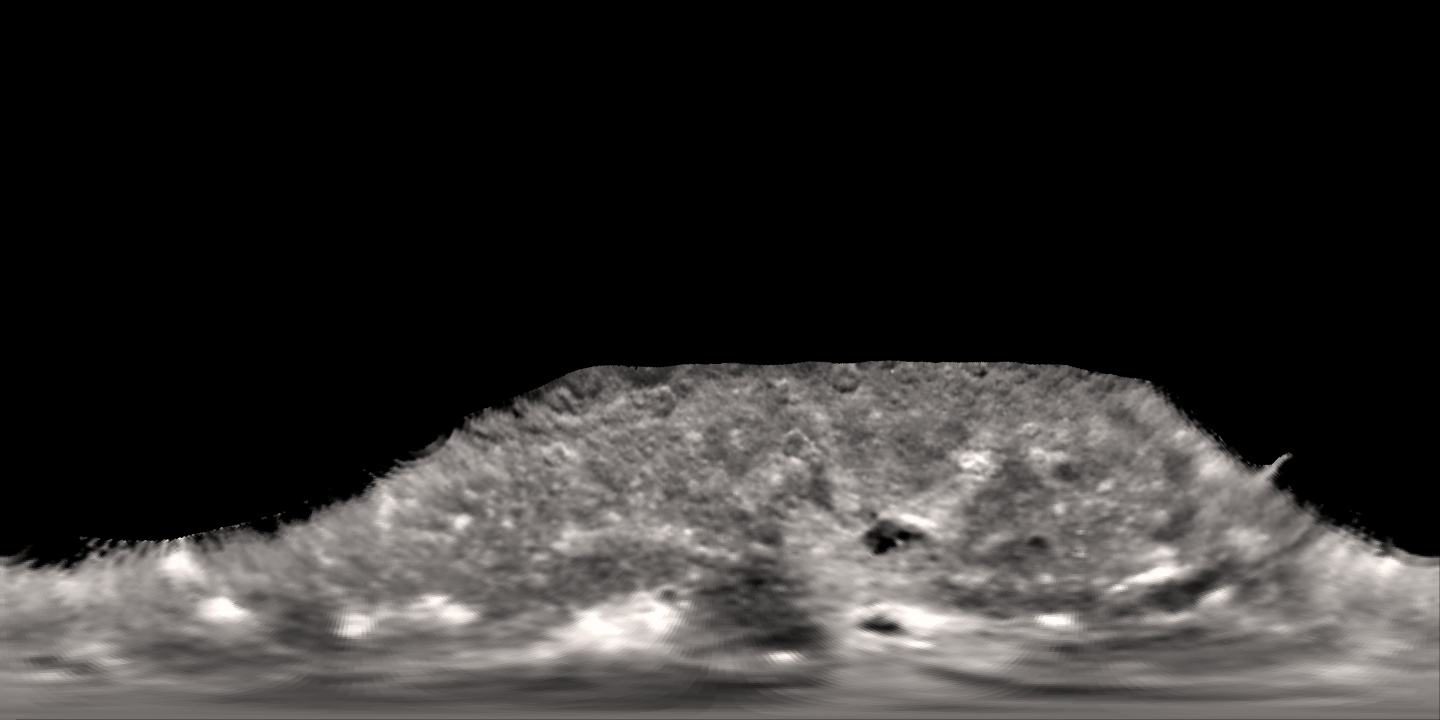
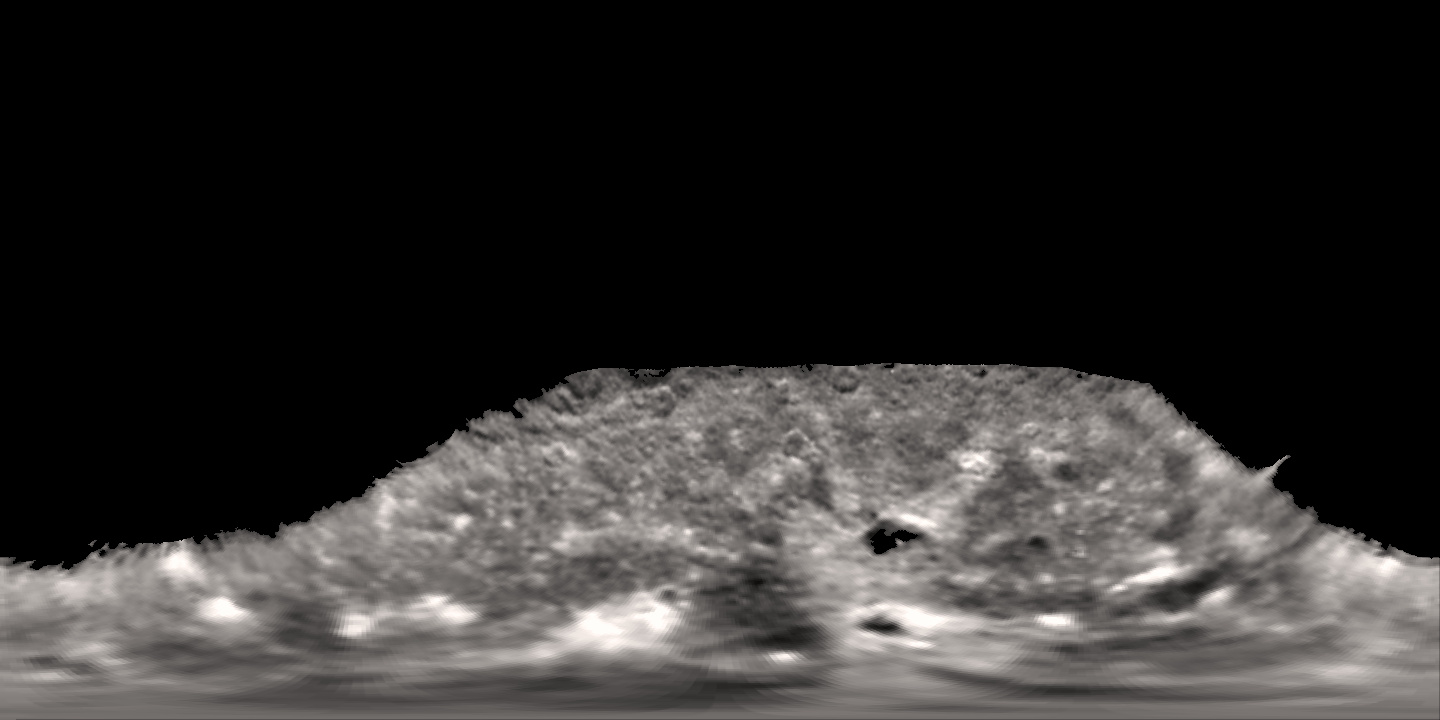
AST-381-01b: remove 1986 terminator rim from Uranian maps (photometric fall-off was double-shaded as a dark seam); stats/fractions regenerated

diff --git a/src/data/catalog.ts b/src/data/catalog.ts
@@ -161,11 +161,11 @@ export const CATALOG: BodyDef[] = [
   // ── Uranus ───────────────────────────────────────────────────────────────
   { id: 'miranda', name: 'Miranda', kind: 'moon', parent: 'uranus', radius: 235.8, albedo: 0.32, color: [0.66, 0.66, 0.66], procedural: { seed: 3, craters: 0.6, rough: 0.8, tint: [0.66, 0.66, 0.67] }, rot: 'miranda', priority: 60,
     subtitle: 'The patchwork moon', desc: 'Grooved coronae and Verona Rupes — a cliff about 20 km tall — make it look shattered and reassembled.' },
-  { id: 'ariel', name: 'Ariel', kind: 'moon', parent: 'uranus', radius: 578.9, albedo: 0.53, color: [0.7, 0.7, 0.7], tex: 'ariel', rot: 'ariel', noData: { threshold: 0.006, fraction: 0.611, note: 'Voyager 2 (1986) imaged only the sunlit southern hemisphere (USGS Voyager mosaic via NASA/JPL, v3.8.1); the black part of the source mosaic is UNOBSERVED and is shown here as a labelled procedural reconstruction. Colour is the disc-integrated tint applied to clear-filter greyscale.' }, procedural: { seed: 311, craters: 0.9, rough: 0.35 }, priority: 62, subtitle: 'The brightest Uranian moon', desc: 'A young, bright surface cut by long canyons with signs of past ice volcanism.' },
+  { id: 'ariel', name: 'Ariel', kind: 'moon', parent: 'uranus', radius: 578.9, albedo: 0.53, color: [0.7, 0.7, 0.7], tex: 'ariel', rot: 'ariel', noData: { threshold: 0.006, fraction: 0.617, note: 'Voyager 2 (1986) imaged only the sunlit southern hemisphere (USGS Voyager mosaic via NASA/JPL, v3.8.1); the black part of the source mosaic is UNOBSERVED and is shown here as a labelled procedural reconstruction. Colour is the disc-integrated tint applied to clear-filter greyscale.' }, procedural: { seed: 311, craters: 0.9, rough: 0.35 }, priority: 62, subtitle: 'The brightest Uranian moon', desc: 'A young, bright surface cut by long canyons with signs of past ice volcanism.' },
   { id: 'umbriel', name: 'Umbriel', kind: 'moon', parent: 'uranus', radius: 584.7, albedo: 0.26, color: [0.4, 0.4, 0.41], procedural: { seed: 5, craters: 1, rough: 0.4, tint: [0.38, 0.38, 0.39], spot: [0.75, 0.75, 0.75] }, rot: 'umbriel', priority: 60,
     subtitle: 'The darkest Uranian moon', desc: 'An old, dark, heavily cratered surface marked by a mysterious bright ring, Wunda, near its equator.' },
-  { id: 'titania', name: 'Titania', kind: 'moon', parent: 'uranus', radius: 788.9, albedo: 0.35, color: [0.6, 0.58, 0.56], tex: 'titania', rot: 'titania', noData: { threshold: 0.006, fraction: 0.622, note: 'Voyager 2 (1986) imaged only the sunlit southern hemisphere (USGS Voyager mosaic via NASA/JPL, v3.8.1); the black part of the source mosaic is UNOBSERVED and is shown here as a labelled procedural reconstruction. Colour is the disc-integrated tint applied to clear-filter greyscale.' }, procedural: { seed: 313, craters: 0.9, rough: 0.35 }, priority: 62, subtitle: 'The largest moon of Uranus', desc: 'Fault valleys up to 1,500 km long suggest its interior expanded as water froze.' },
-  { id: 'oberon', name: 'Oberon', kind: 'moon', parent: 'uranus', radius: 761.4, albedo: 0.31, color: [0.52, 0.48, 0.46], tex: 'oberon', rot: 'oberon', noData: { threshold: 0.006, fraction: 0.61, note: 'Voyager 2 (1986) imaged only the sunlit southern hemisphere (USGS Voyager mosaic via NASA/JPL, v3.8.1); the black part of the source mosaic is UNOBSERVED and is shown here as a labelled procedural reconstruction. Colour is the disc-integrated tint applied to clear-filter greyscale.' }, procedural: { seed: 317, craters: 0.9, rough: 0.35 }, priority: 62, subtitle: 'The outermost major Uranian moon', desc: 'Ancient, cratered and reddish, with dark material pooled on crater floors and a mountain rising 11 km.' },
+  { id: 'titania', name: 'Titania', kind: 'moon', parent: 'uranus', radius: 788.9, albedo: 0.35, color: [0.6, 0.58, 0.56], tex: 'titania', rot: 'titania', noData: { threshold: 0.006, fraction: 0.63, note: 'Voyager 2 (1986) imaged only the sunlit southern hemisphere (USGS Voyager mosaic via NASA/JPL, v3.8.1); the black part of the source mosaic is UNOBSERVED and is shown here as a labelled procedural reconstruction. Colour is the disc-integrated tint applied to clear-filter greyscale.' }, procedural: { seed: 313, craters: 0.9, rough: 0.35 }, priority: 62, subtitle: 'The largest moon of Uranus', desc: 'Fault valleys up to 1,500 km long suggest its interior expanded as water froze.' },
+  { id: 'oberon', name: 'Oberon', kind: 'moon', parent: 'uranus', radius: 761.4, albedo: 0.31, color: [0.52, 0.48, 0.46], tex: 'oberon', rot: 'oberon', noData: { threshold: 0.006, fraction: 0.618, note: 'Voyager 2 (1986) imaged only the sunlit southern hemisphere (USGS Voyager mosaic via NASA/JPL, v3.8.1); the black part of the source mosaic is UNOBSERVED and is shown here as a labelled procedural reconstruction. Colour is the disc-integrated tint applied to clear-filter greyscale.' }, procedural: { seed: 317, craters: 0.9, rough: 0.35 }, priority: 62, subtitle: 'The outermost major Uranian moon', desc: 'Ancient, cratered and reddish, with dark material pooled on crater floors and a mountain rising 11 km.' },
   // ── Neptune ──────────────────────────────────────────────────────────────
   { id: 'triton', name: 'Triton', kind: 'moon', parent: 'neptune', radius: 1352.6, albedo: 0.72, color: [0.85, 0.8, 0.76], tex: 'triton', texHi: true, rot: 'triton', noData: { threshold: 0.0018, fraction: 0.33, note: 'Voyager 2 (1989) imaged mainly the southern hemisphere — the black part of the USGS source mosaic is UNOBSERVED and is shown as a labelled procedural reconstruction (v3.4: v3.3 used a third-party mosaic that silently painted invented terrain there).' }, procedural: { seed: 401, craters: 0.15, rough: 0.2 }, priority: 75,
     // v3.7 Triton: 14 µbar N₂ (Rayleigh negligible); thin haze τ ≈ 0.003–0.01 below ≈ 30 km (Voyager 2, Pollack et al. 1990)

diff --git a/tools/ingest/uranian_jpl.py b/tools/ingest/uranian_jpl.py
@@ -21,6 +21,7 @@ Usage: python3 tools/ingest/uranian_jpl.py <dir with ura1vuu2.tif ura3vuu2.tif u
 import hashlib, json, os, sys
 import numpy as np
 from PIL import Image
+from scipy import ndimage
 ROOT = os.path.join(os.path.dirname(__file__), '..', '..')
 SRC = sys.argv[1]
 BODIES = {'ariel': ('ura1vuu2.tif', (0.7, 0.7, 0.7)), 'titania': ('ura3vuu2.tif', (0.6, 0.58, 0.56)), 'oberon': ('ura4vuu2.tif', (0.52, 0.48, 0.46))}
@@ -32,6 +33,12 @@ for name, (f, col) in BODIES.items():
     p = os.path.join(SRC, f)
     g = np.asarray(Image.open(p).convert('L'), dtype=np.float64) / 255.0
     nodata = g < 1.5 / 255
+    # cp2 (AST-381-01b): the mosaics' edge is the 1986 TERMINATOR, so the last few pixels are darkened by illumination,
+    # not albedo; SOL shades the sphere itself, so keeping them drew a dark seam (double shading). Remove a 3-px rim and any
+    # pixel within 10 px of the edge darker than 0.45× the observed median (photometric fall-off) → labelled reconstruction.
+    med = float(np.median(g[~nodata]))
+    near = ndimage.binary_dilation(nodata, iterations=10)
+    nodata = ndimage.binary_dilation(nodata, iterations=3) | (near & (g < 0.45 * med))
     c = np.array(col) / (0.2126 * col[0] + 0.7152 * col[1] + 0.0722 * col[2])     # luminance-normalised tint
     rgb = lin(g)[..., None] * c[None, None, :]
     rgb[nodata] = 0
@@ -39,6 +46,6 @@ for name, (f, col) in BODIES.items():
     Image.fromarray((np.clip(enc(np.clip(rgb, 0, 1)), 0, 1) * 255 + 0.5).astype(np.uint8)).save(out, quality=95, subsampling=0, optimize=True)
     Y = (lin(np.asarray(Image.open(out).convert('RGB'), dtype=np.float64) / 255.0) @ np.array([0.2126, 0.7152, 0.0722]))
     report[name] = {'source': f, 'sourceSha256': sha(p), 'size': list(Image.open(p).size), 'outSha256': sha(out), 'meanLinearY': float(Y.mean()),
-                    'unobservedFraction': round(float(nodata.mean()), 3)}
+                    'unobservedFraction': round(float(nodata.mean()), 3), 'rimRemoved': 'terminator rim (3 px + dark fall-off within 10 px) treated as unobserved'}
 json.dump(report, open(os.path.join(ROOT, 'docs/assets/provenance/uranian-jpl-v381.json'), 'w'), indent=1)
 print(json.dumps(report, indent=1))
